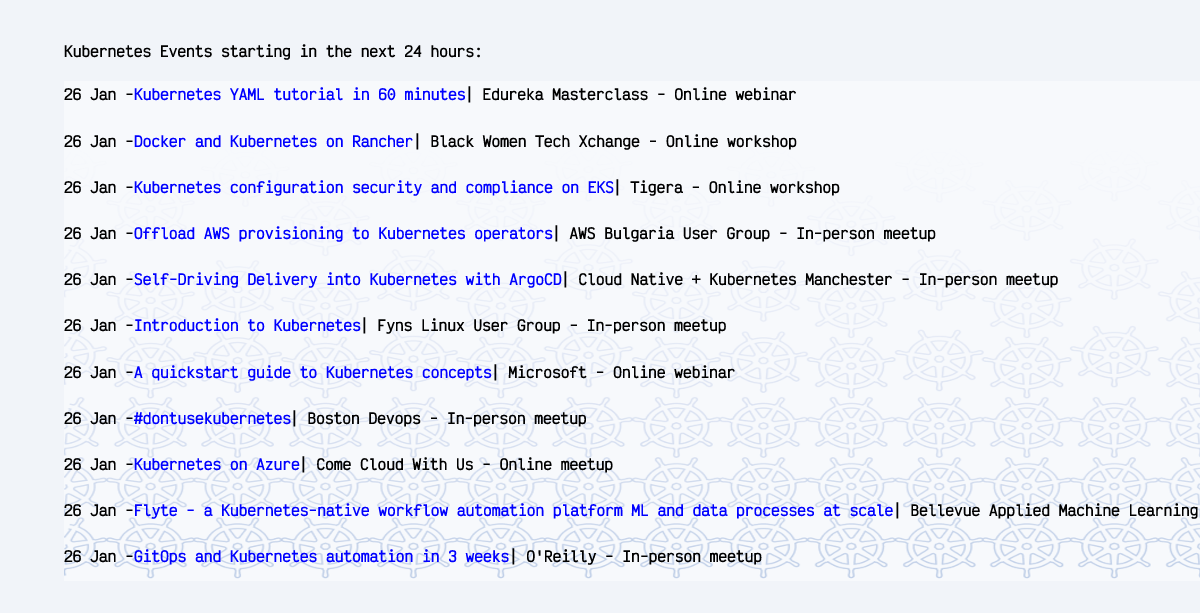
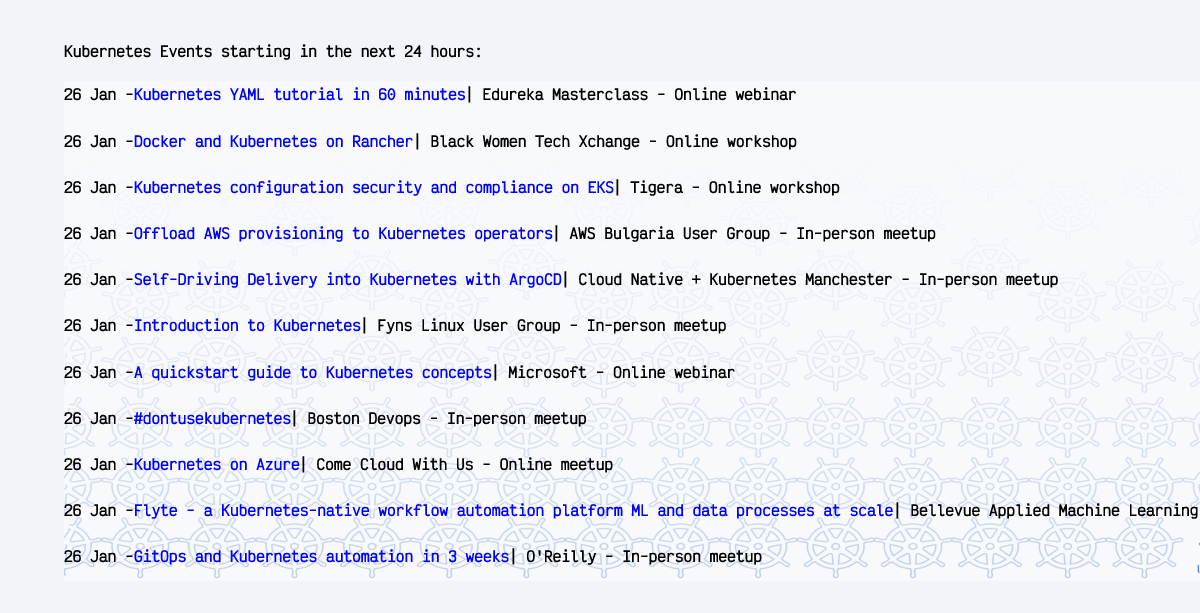
Config background image

Changed region(s): [[0.0617, 0.6509, 1.0, 0.9299]]

diff --git a/src/main.tsx b/src/main.tsx
@@ -1,7 +1,7 @@
-import React from "react"
+import React from "react";
 import { readFile, writeFile } from "fs/promises";
 import { Resvg } from "@resvg/resvg-js";
-import satori from "satori"
+import satori from "satori";
 
 const events = [
   {
@@ -81,17 +81,37 @@ const base64Image = async (filename: string): Promise<string> => {
 const bottomImg = await base64Image("./bottom-img.png");
 
 const template = (
-  <div style={{ display: "flex", flexWrap: "wrap", margin: "2em 4em", position: "relative" }}>
-    <img width="34" height="500" src={bottomImg} style={{ position: "absolute", width: "100%", bottom: 0 }} />
+  <div
+    style={{
+      display: "flex",
+      flexWrap: "wrap",
+      margin: "2em 4em",
+      position: "relative",
+    }}
+  >
+    <img
+      width="34"
+      height="500"
+      src={bottomImg}
+      style={{
+        position: "absolute",
+        width: "100vw",
+        height: "10vh",
+        bottom: 0,
+      }}
+    />
     <div style={{ display: "flex", flexDirection: "column" }}>
       <h1>Kubernetes Events starting in the next 24 hours:</h1>
       {events.map(({ title, date, host, type }) => (
         <h2 key={title} style={{ display: "flex", wordBreak: "break-all" }}>
-          {date} - <a href="#" style={{ color: "blue" }}>{title}</a> | {host} - {type}
+          {date} -{" "}
+          <a href="#" style={{ color: "blue" }}>
+            {title}
+          </a>{" "}
+          | {host} - {type}
         </h2>
       ))}
     </div>
-
   </div>
 );
 
